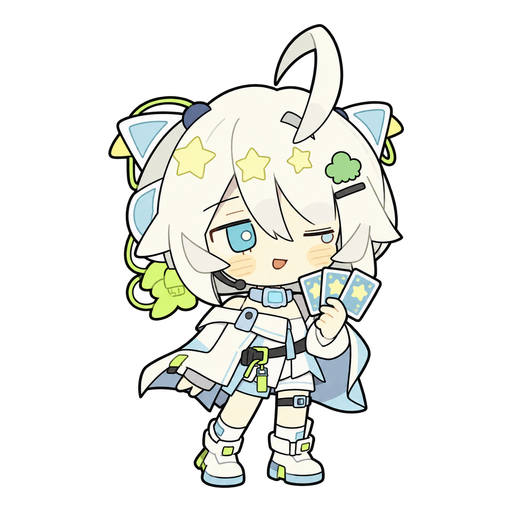
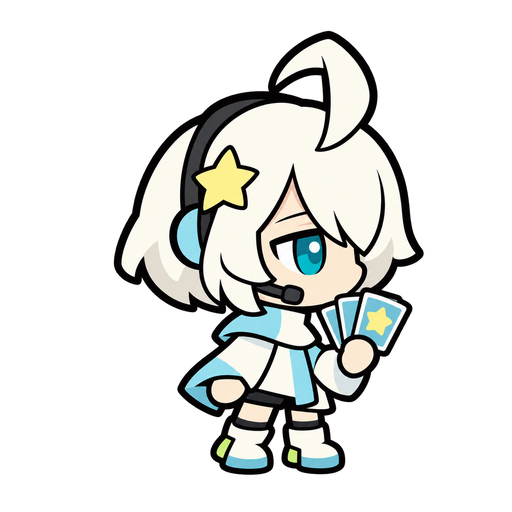
fix(autochess): publish revised minimal character art

Changed region(s): [[0.1875, 0.0312, 0.8438, 0.9688]]

diff --git a/docs/autochess-minimal-art-guide.md b/docs/autochess-minimal-art-guide.md
@@ -1,0 +1,34 @@
+# 自走棋极简素材规范
+
+极简素材首先服务于战场 48–64px 小图识别。生成时必须引用已有极简素材，不能仅在精细立绘 prompt 前添加「极简」「Q 版」；不得把细节版当画风参考。
+
+## 画风参考与优先级
+
+- 主要画风参考：`public/images/autochess/portraits/minimal/sui.png`、`grove_mender.png`。大头、短小身体、粗深色轮廓、大块纯色，优先于服装还原。
+- 人物原头像／旧立绘只供身份辨识，必须明确要求删减细节。旧版 komichi 并非最简档，不宜单独作为极简基准。
+- 头部约占总高 65%，完整全身，三分之四朝右，手为团块、脚为短靴状，轮廓紧凑。
+- 最多六个主要色系（不计肤色与轮廓）；头发只用 3–5 个大色块，内部最多三条分隔线。
+- 每眼至多一个白色高光点；无渐变，每个大色块最多一块平涂阴影。
+- 先逐张查看原版立绘，列出真实发型、衣装轮廓、主色与标志饰品。不能凭旧 Q 版推断原设；枝堇原版是侧盘发配长直侧发，不能再误画成普通长侧辫。
+- 身份标记按角色需要保留，识别点宁大勿碎；不要机械限制两三个标记，以致失去人物特色。可把标志性披肩、花饰、藤蔓概括为大形状，与一个紧凑道具共存。
+- 禁止细密蕾丝网格、刺绣纹理、细发丝、细褶皱、复杂瞳孔、材质高光、细小扣带、过多垂挂饰品与漂浮粒子。原设关键蕾丝披肩可以保留为整块白色披肩加少量大扇贝边，花纹可保留为单个大花／藤蔓符号；不能把「删细节」变成删掉整件标志衣装。
+- 真正透明 alpha 背景，无地面、投影、文字与场景；512×512，最长可见边 464px，边缘至少 24px。
+
+## 本轮完整 prompt
+
+使用内置 imagegen；每人独立生成。小松绿、羽啾的完整英文 prompt 及参考图顺序保存于 [autochess-minimal-prompts.json](autochess-minimal-prompts.json)。枝堇首版被用户指出过度简化、失去特色，现改用 [枝堇第二版完整 prompt](autochess-sumire-minimal-v2.json)，以原版立绘作为身份及服装依据。旧 JSON 中枝堇 prompt 仅作为历史记录，不再复用。参数 `transparent_background: true`。
+
+参考图顺序固定为：岁己极简（画风）、七海极简（画风）、对应人物旧极简（仅身份）。后续使用本轮新图作为身份参考时应同步更新记录，不能误称仍使用旧图。
+
+## 验收
+
+1. 同时查看新图、已有画风参考以及 48／64／96px 实际尺寸缩略图，不能只看大图。
+2. 小图必须能分清脸、发型、主色和道具；不能依赖蕾丝、花纹与高光区分角色。不清晰就进一步删减后重生。
+   同时对照原版确认身份未被简化掉；如果只剩「紫发＋书」等泛用组合，应恢复标志性发型、披肩、花饰及植物轮廓，而不是继续删减。
+3. 保留生成 alpha，仅允许裁透明边距、等比缩放、居中；不要用程序重绘人物或用去底代替真实透明生成。
+4. `minimal/<id>.png` 与默认 `portraits/<id>.png` 同步；细节版不随极简替换。
+5. 用仓库 `verify-autochess.cjs` 的安装版静音 Chrome 路径核验商店、图鉴和战场；检查截图非黑图，结合文本状态、DOM、画布尺寸与页面错误，并打开截图目检。
+
+## 旧版问题
+
+2026-10-13 的三人 prompt 同时要求「极简」与人物细碎饰品、克制赛璐璐阴影，并只用相对精细的 komichi 作为参考，未对内部线条、色块、道具复杂度和缩略图作硬性限制。2026-10-17 重生改用 sui／grove_mender 为主要画风参考，并显式删除上述细节。以后不能直接沿用旧文档的「生成提示词组」生成极简档。

diff --git a/docs/autochess-287-art.md b/docs/autochess-287-art.md
@@ -1,5 +1,9 @@
 # 287 三人棋子形象（0.12.0）
 
+> 2026-10-17：下文是首版历史记录，三人极简素材已因细节过密而重新生成。后续极简生成必须使用 [极简美术规范](autochess-minimal-art-guide.md) 与其中的完整 prompt，不能直接复用本页旧提示词。细节版仍沿用本页记录。
+
+> 追加确认：枝堇的细节档也已替换为本轮第一张原立绘参考成图，极简档使用第二张简化成图。两档来源与 prompt 见 [枝堇新图记录](autochess-sumire-minimal-v2.json)。
+
 用户要求为新加入的小松绿、枝堇、羽啾生成游戏形象。原实现只沿用本人圆头像；本次补齐极简、细节两套独立透明全身 Q 版。使用内置 imagegen，身份参考来自 public/images/livers/{viridis,sumire,chu2u}.jpg；极简画风参考 minimal/komichi.png，细节画风参考 detail/zeyin.png。经典「棋子」模式继续使用原头像。
 
 生成提示词组：

diff --git a/AGENTS.md b/AGENTS.md
@@ -12,6 +12,14 @@
 
 ## Autochess visual testing
 
+- Before generating or replacing minimal autochess character art, read
+  `docs/autochess-minimal-art-guide.md` and reuse the complete prompts in
+  `docs/autochess-minimal-prompts.json` (Sumire uses the revised
+  `docs/autochess-sumire-minimal-v2.json`). Inspect original character art first;
+  preserve distinctive hairstyle and costume shapes when simplifying. Match `sui` and
+  `grove_mender` minimal sprites and inspect at 48/64px; do not reuse the old
+  detail-heavy 287 prompts for minimal art.
+
 - Read `progress.md` before changing or debugging the autochess game.
 - The game uses Phaser with `Phaser.AUTO`, which normally selects WebGL. The shared
   `web_game_playwright_client.js` launches bundled headless Chromium with forced
